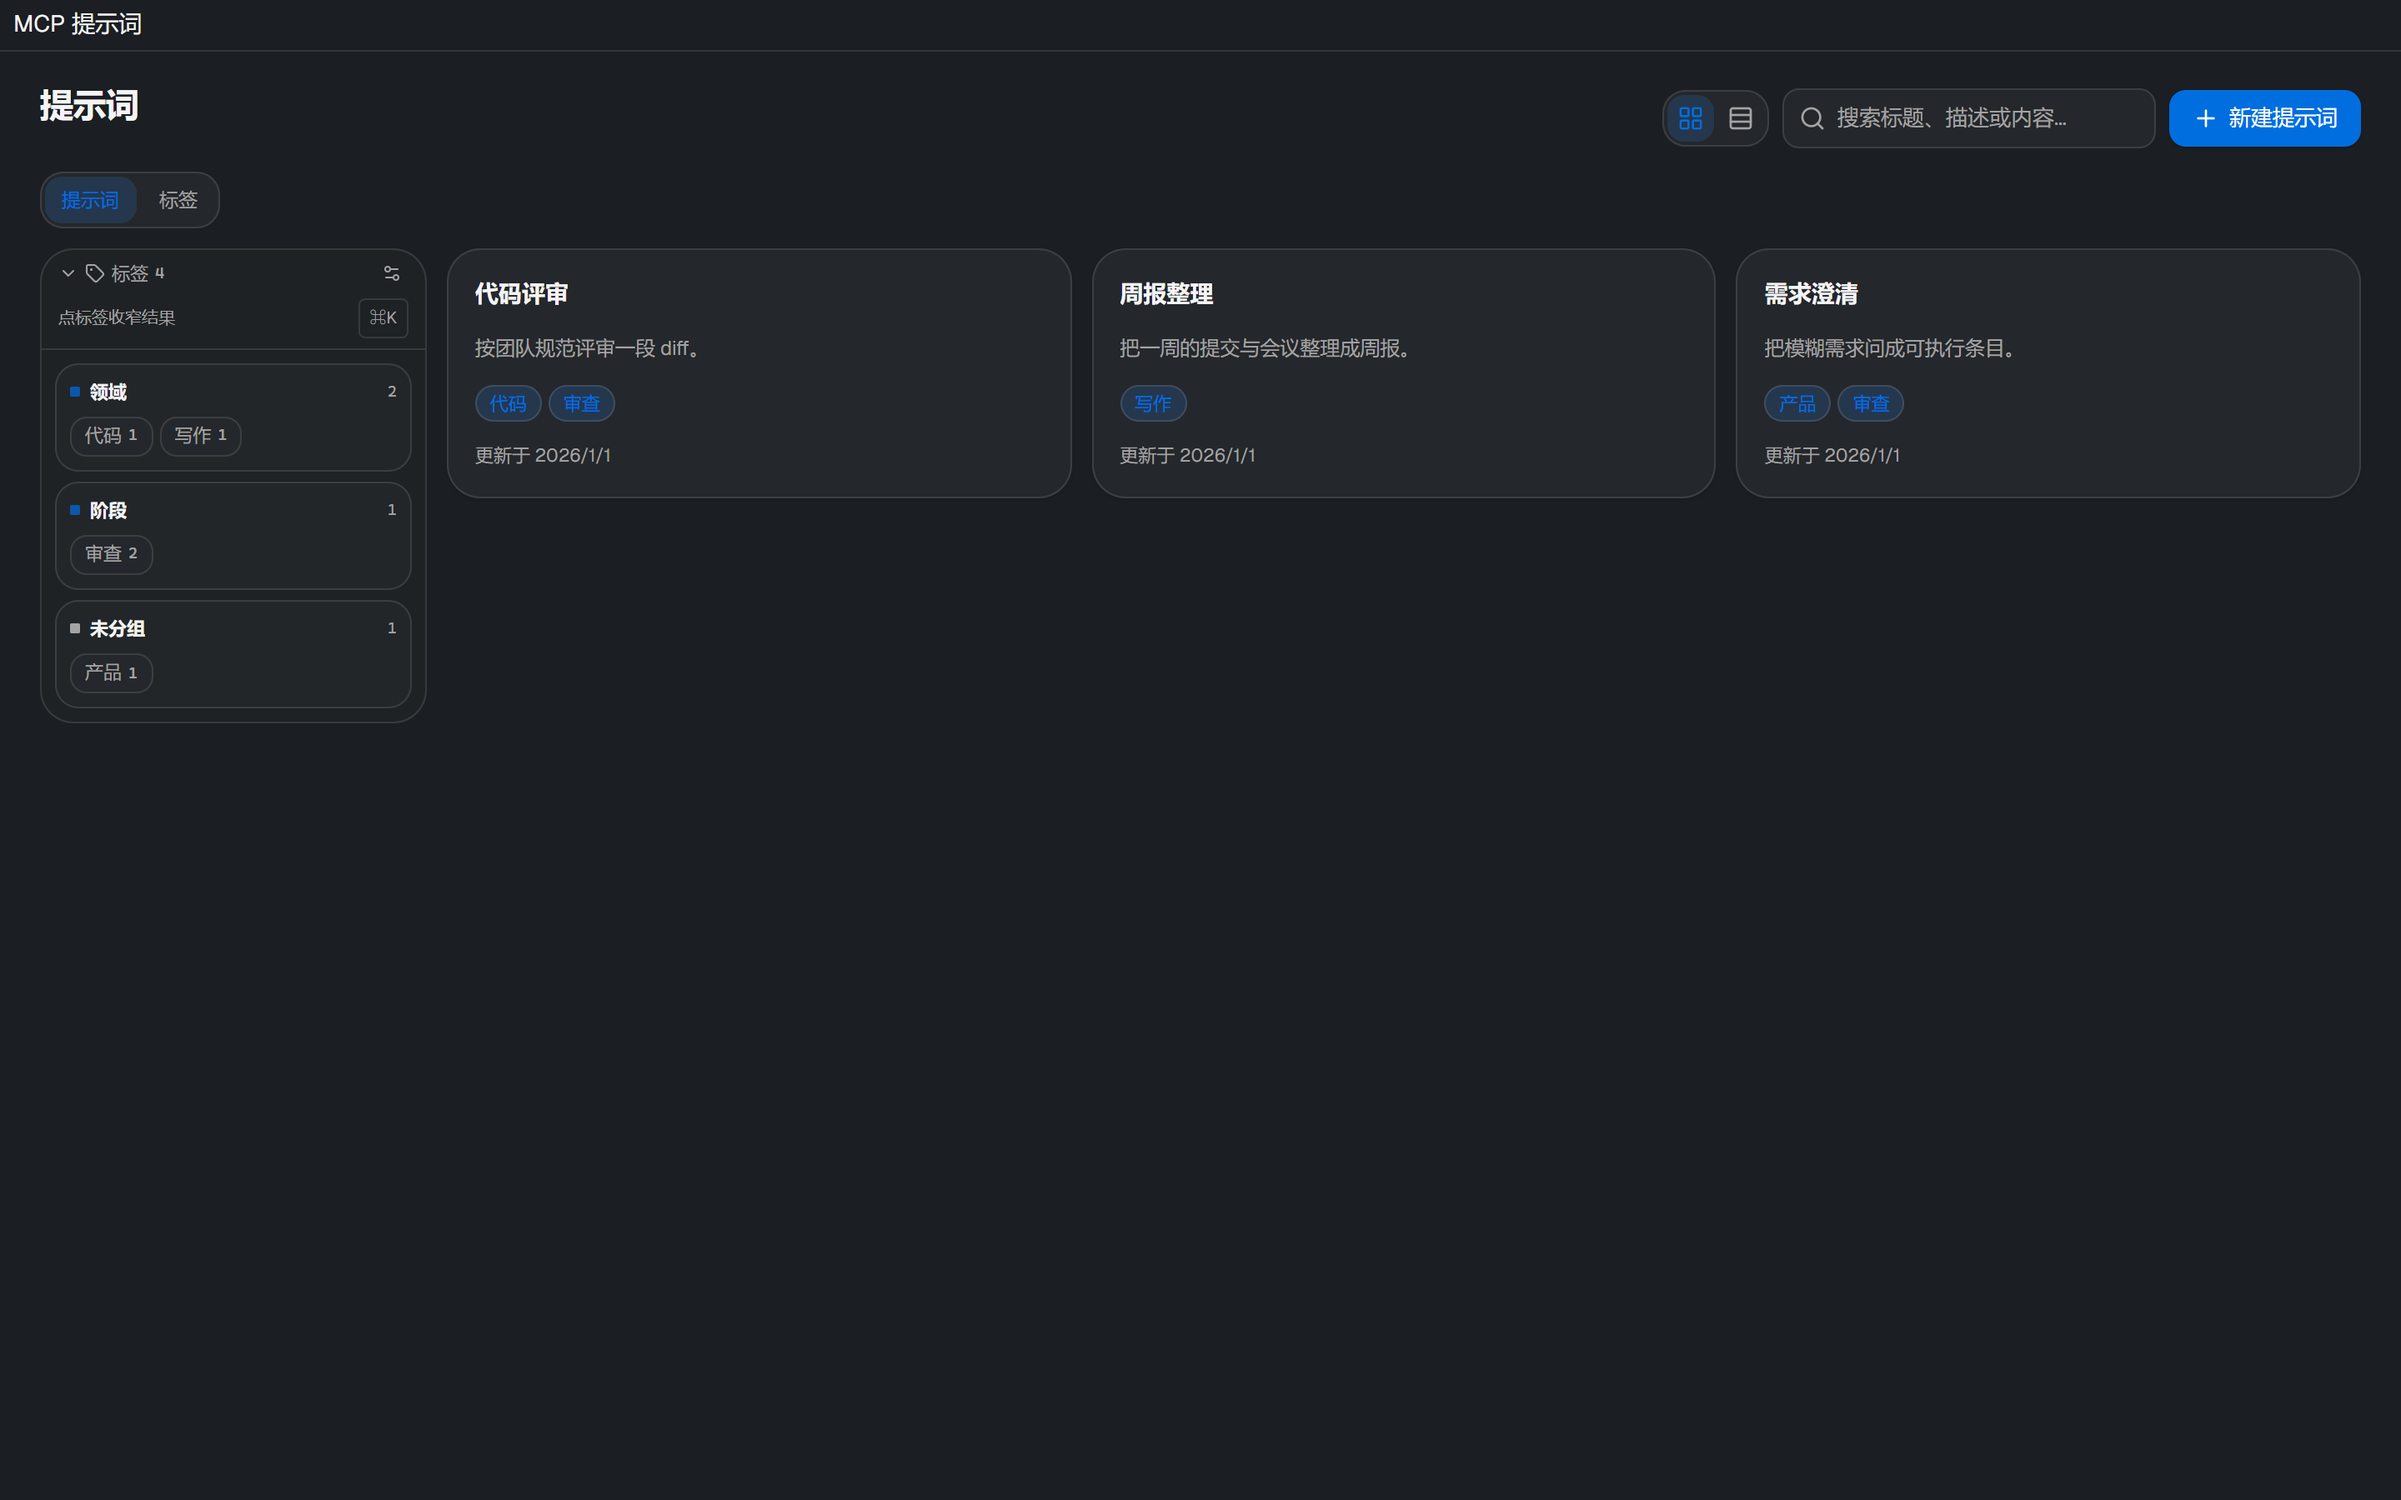
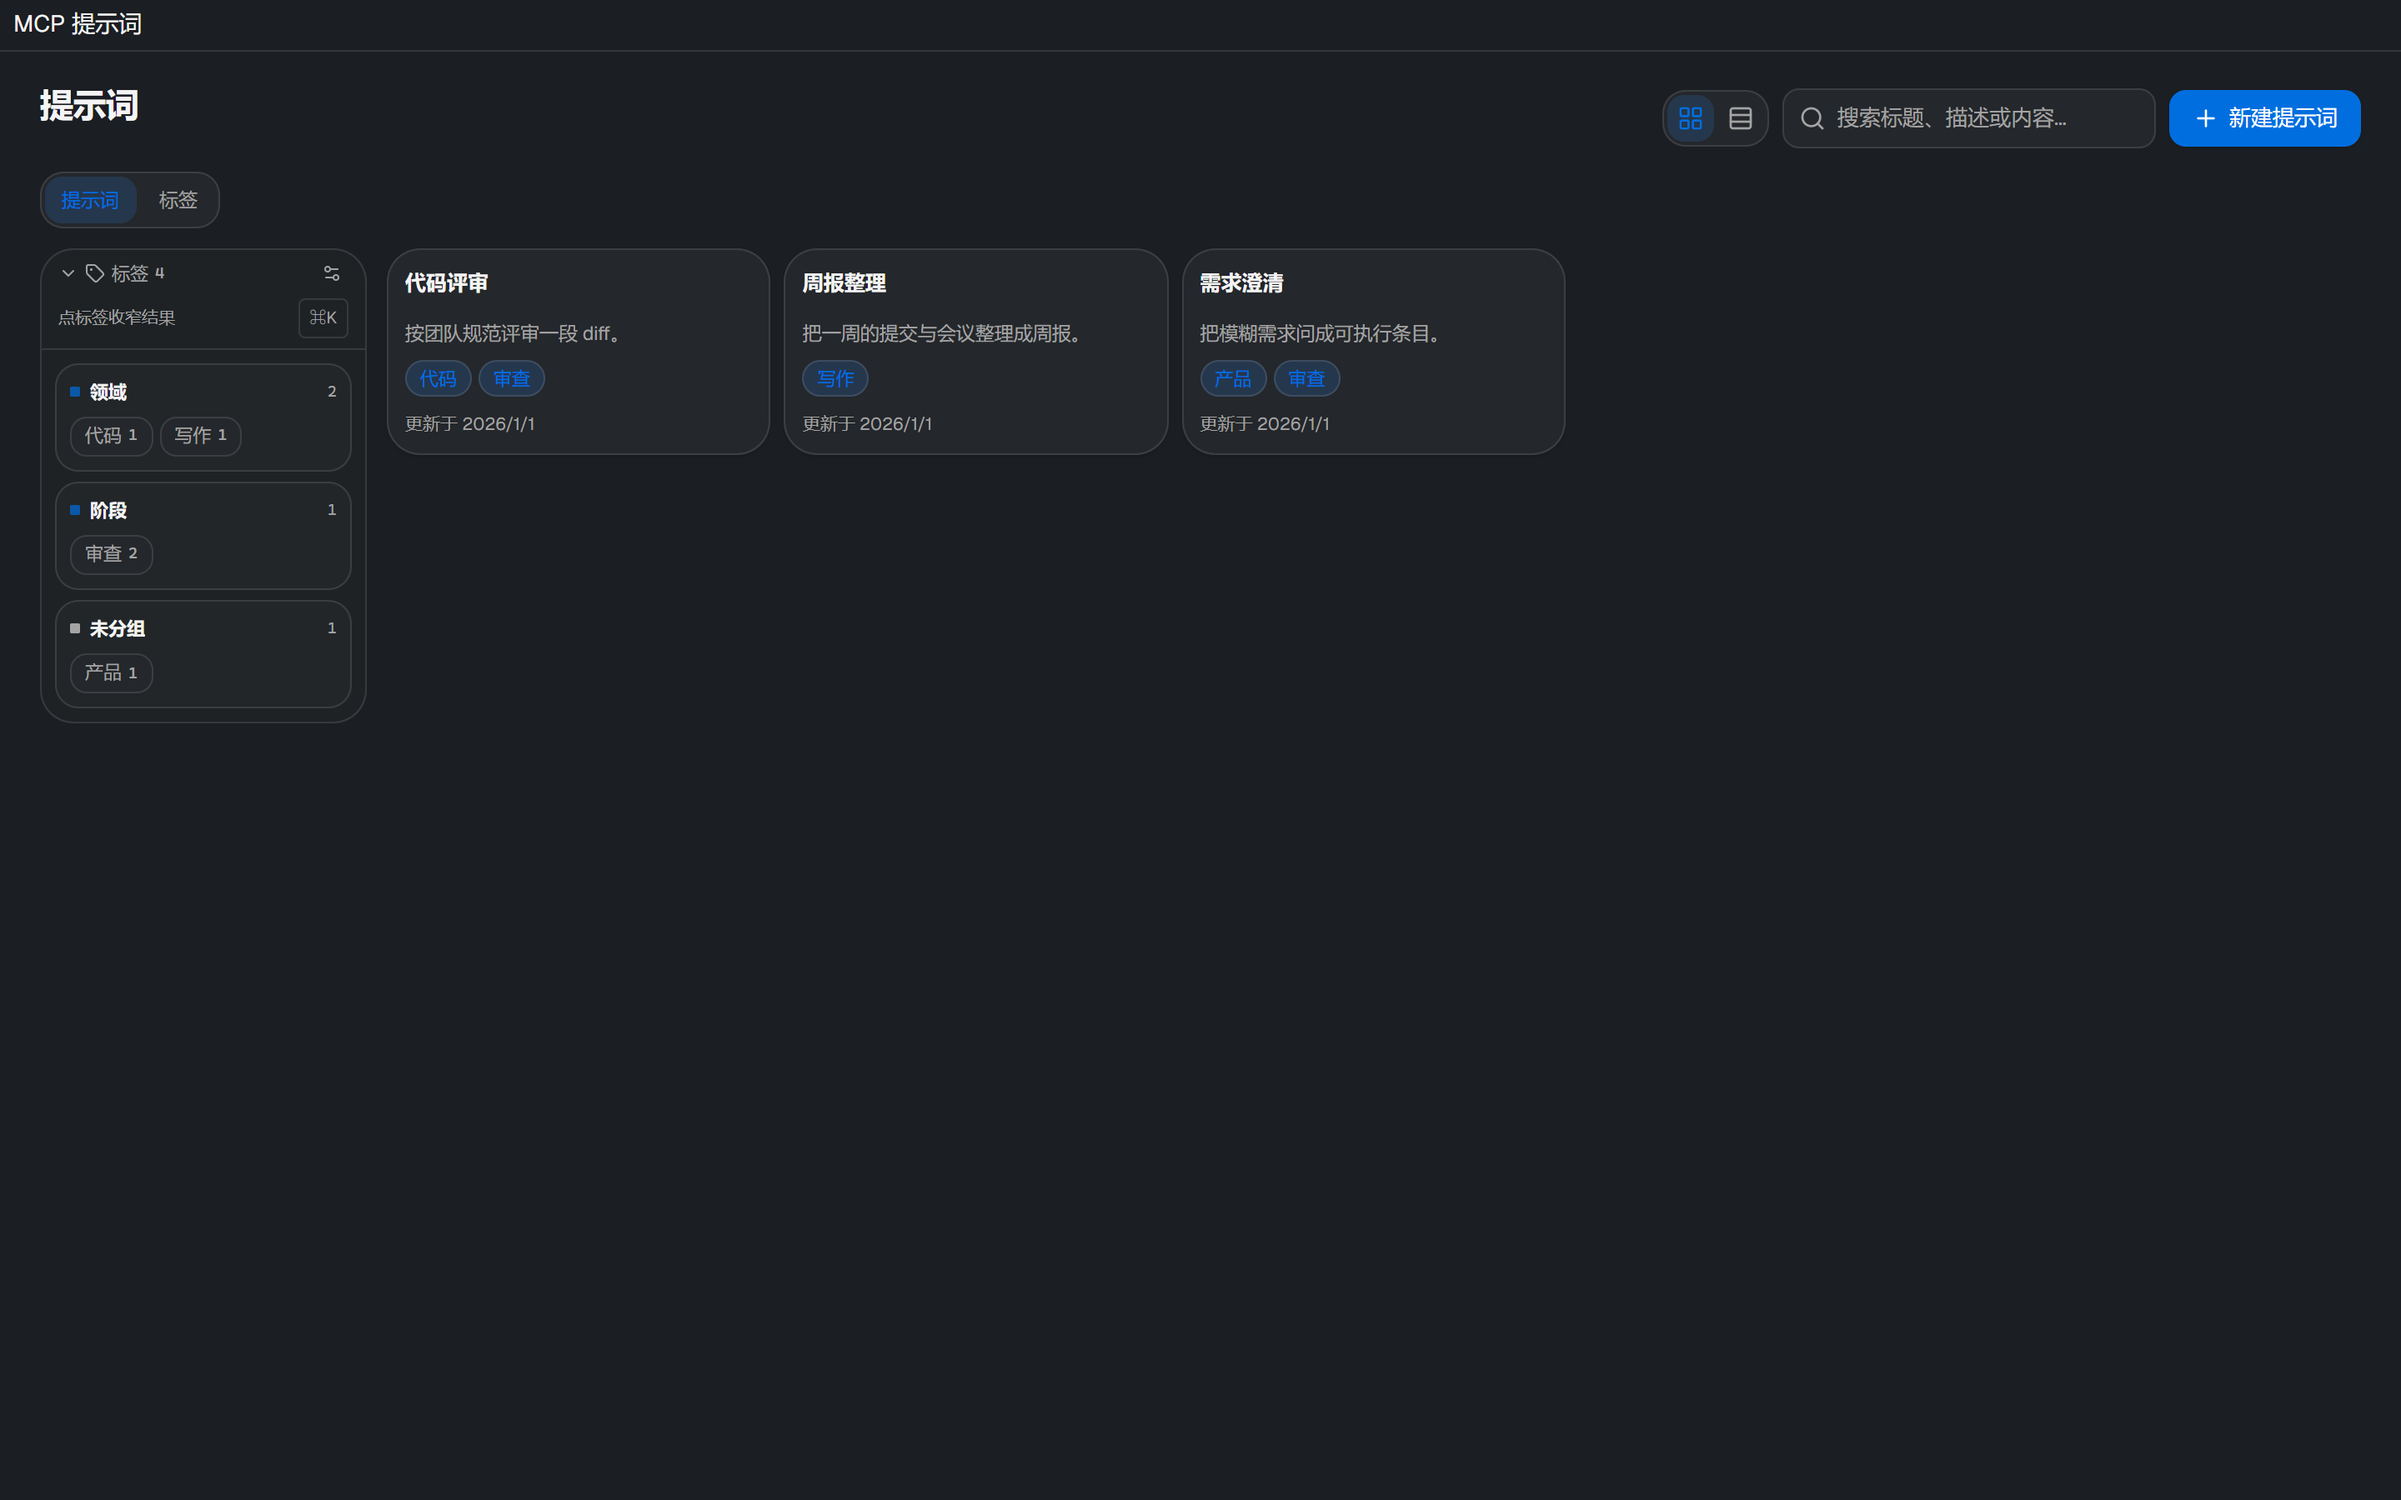
提高技能/提示词/MCP 三页卡片密度：按容器宽度自适应铺满
原来固定 sm:2 / xl:3 / 2xl:4 列，宽屏上一行只放四张，窄一点就掉到两列，
卡片本身的 p-4 内边距和 14px 标题也把有限宽度吃掉。改成
repeat(auto-fill, minmax(230px, 1fr)) 后列数只跟容器走，1440 宽下技能页
能到五列；卡片内边距收到 p-2.5、标题 12.5px、描述 11.5px，左栏标签仓
232px 收窄到 196px 把宽度让给卡片。信息密度上去了，一屏能扫到的条目翻倍。

diff --git a/src/ahub/pages/SkillsPage.tsx b/src/ahub/pages/SkillsPage.tsx
@@ -829,7 +829,7 @@ export function SkillsPage() {
       ) : (
         <>
           <div className="flex min-h-0 flex-1 items-start gap-3">
-            <aside className="w-[232px] shrink-0">
+            <aside className="w-[196px] shrink-0">
               <TagShelf
                 variant="rail"
                 allTags={allTags}
@@ -1101,7 +1101,7 @@ export function SkillsPage() {
                 data-anim
                 onClick={() => (batchMode ? toggleBatch(s.dirName) : void openDetail(s))}
                 className={cn(
-                  "group flex cursor-pointer flex-col rounded-xl border border-border bg-card p-4 shadow-sm outline-none transition-all hover:-translate-y-0.5 hover:border-primary/40 hover:shadow-md",
+                  "group flex cursor-pointer flex-col rounded-xl border border-border bg-card p-2.5 shadow-sm outline-none transition-all hover:-translate-y-0.5 hover:border-primary/40 hover:shadow-md",
                   picked && "border-primary shadow-[0_0_0_3px_var(--ah-primary-soft)]",
                 )}
               >
@@ -1116,7 +1116,7 @@ export function SkillsPage() {
                       {picked ? <Check className="size-3.5" strokeWidth={3} /> : null}
                     </span>
                   ) : null}
-                  <h3 className="min-w-0 flex-1 truncate font-mono text-sm font-semibold text-foreground">{s.name}</h3>
+                  <h3 className="min-w-0 flex-1 truncate font-mono text-[12.5px] font-semibold text-foreground">{s.name}</h3>
                   {s.origin ? (
                     <Badge variant="muted" title={s.origin.file} className="shrink-0">
                       <HarnessIcon id={hid} />
@@ -1129,7 +1129,7 @@ export function SkillsPage() {
                   )}
                 </div>
                 {s.description ? (
-                  <p className="mt-1.5 line-clamp-2 text-xs leading-relaxed text-ink-2">{s.description}</p>
+                  <p className="mt-1 line-clamp-2 text-[11.5px] leading-snug text-ink-2">{s.description}</p>
                 ) : null}
                 {/* AI 摘要：有摘要时给一行速览，没有则不占位（详情页有生成入口） */}
                 {s.summary ? (
@@ -1142,7 +1142,7 @@ export function SkillsPage() {
                     {s.summary.oneLiner}
                   </p>
                 ) : null}
-                <div className="mt-3 flex flex-wrap items-center gap-1">
+                <div className="mt-2 flex flex-wrap items-center gap-1">
                   {s.tags.map((tg) => {
                     const on = activeTags.has(tg);
                     return (
@@ -1274,14 +1274,14 @@ export function SkillsPage() {
                           </button>
                         ) : null}
                       </h2>
-                      {collapsed ? null : <div className="grid gap-2.5 sm:grid-cols-2 lg:grid-cols-3 2xl:grid-cols-4">{list.map(card)}</div>}
+                      {collapsed ? null : <div className="grid grid-cols-[repeat(auto-fill,minmax(230px,1fr))] gap-2">{list.map(card)}</div>}
                     </section>
                   );
                 })}
               </div>
             );
           }
-          return <div className="grid gap-2.5 sm:grid-cols-2 lg:grid-cols-3 2xl:grid-cols-4">{filtered.map(card)}</div>;
+          return <div className="grid grid-cols-[repeat(auto-fill,minmax(230px,1fr))] gap-2">{filtered.map(card)}</div>;
         })()
       )}
 

diff --git a/src/ahub/pages/PromptsPage.tsx b/src/ahub/pages/PromptsPage.tsx
@@ -299,7 +299,7 @@ export function PromptsPage() {
       ) : (
         <>
           <div className="flex min-h-0 flex-1 items-start gap-3">
-            <aside className="w-[232px] shrink-0">
+            <aside className="w-[196px] shrink-0">
               <TagShelf
                 variant="rail"
                         allTags={allTags}
@@ -490,16 +490,16 @@ export function PromptsPage() {
           </div>
         </div>
       ) : (
-        <div className="grid gap-3 sm:grid-cols-2 xl:grid-cols-3">
+        <div className="grid grid-cols-[repeat(auto-fill,minmax(230px,1fr))] gap-2">
           {filtered.map((p) => (
             <div
               key={p.id}
               data-anim
               onClick={() => openEdit(p)}
-              className="group flex cursor-pointer flex-col rounded-xl border border-border bg-card p-4 shadow-sm outline-none transition-all hover:-translate-y-0.5 hover:border-primary/40 hover:shadow-md"
+              className="group flex cursor-pointer flex-col rounded-xl border border-border bg-card p-2.5 shadow-sm outline-none transition-all hover:-translate-y-0.5 hover:border-primary/40 hover:shadow-md"
             >
               <div className="flex items-start justify-between gap-2">
-                <h3 className="min-w-0 flex-1 truncate text-sm font-semibold text-foreground">{p.title}</h3>
+                <h3 className="min-w-0 flex-1 truncate text-[12.5px] font-semibold text-foreground">{p.title}</h3>
                 <div className="flex shrink-0 items-center gap-0.5 opacity-0 transition-opacity group-hover:opacity-100">
                   {/* 只有正文里真有占位符时才出现「填充」，否则这个按钮点进去是空的 */}
                   {hasVars(p) ? (
@@ -540,18 +540,18 @@ export function PromptsPage() {
                 </div>
               </div>
               {p.description ? (
-                <p className="mt-1.5 line-clamp-2 text-xs leading-relaxed text-ink-2">{p.description}</p>
+                <p className="mt-1 line-clamp-2 text-[11.5px] leading-snug text-ink-2">{p.description}</p>
               ) : (
                 <p className="mt-1.5 line-clamp-2 text-xs leading-relaxed text-ink-3">{p.content.slice(0, 120)}</p>
               )}
-              <div className="mt-3 flex flex-wrap gap-1">
+              <div className="mt-2 flex flex-wrap gap-1">
                 {p.tags.map((tg) => (
                   <Badge key={tg} variant="default">
                     {tg}
                   </Badge>
                 ))}
               </div>
-              <div className="mt-auto flex items-center gap-2 pt-3 text-[11px] text-ink-3">
+              <div className="mt-auto flex items-center gap-2 pt-2 text-[10.5px] text-ink-3">
                 <span>{t("common.updatedAt")} {fmt(p.updatedAt)}</span>
                 {p.versions.length > 0 ? (
                   <span className="ml-auto inline-flex items-center gap-1">

diff --git a/src/ahub/pages/McpPage.tsx b/src/ahub/pages/McpPage.tsx
@@ -493,7 +493,7 @@ export function McpPage() {
       {/* 标签筛选常驻：即便当前没有标签也保留入口，否则用户不知道有这个能力，
           与 Skills 页保持一致（那边是无条件显示的） */}
           <div className="flex min-h-0 flex-1 items-start gap-3">
-            <aside className="w-[232px] shrink-0">
+            <aside className="w-[196px] shrink-0">
               <TagShelf
                 variant="rail"
                         allTags={allTags}
@@ -596,7 +596,7 @@ export function McpPage() {
           }
         />
       ) : (
-        <div className="grid gap-3 sm:grid-cols-2 xl:grid-cols-3">
+        <div className="grid grid-cols-[repeat(auto-fill,minmax(230px,1fr))] gap-2">
           {filtered.map((s) => (
             <div
               key={s.id}
@@ -612,14 +612,14 @@ export function McpPage() {
               }}
               onDoubleClick={() => openEdit(s)}
               className={cn(
-                "group flex flex-col rounded-xl border border-border bg-card p-4 shadow-sm transition-all hover:-translate-y-0.5 hover:border-primary/40 hover:shadow-md",
+                "group flex flex-col rounded-xl border border-border bg-card p-2.5 shadow-sm transition-all hover:-translate-y-0.5 hover:border-primary/40 hover:shadow-md",
                 !s.enabled && "opacity-60",
                 batchMode && "cursor-pointer",
                 batchMode && batchSel.has(s.id) && "border-primary shadow-[0_0_0_3px_var(--ah-primary-soft)]",
               )}
             >
               <div className="flex items-start justify-between gap-2">
-                <h3 className="min-w-0 flex-1 truncate font-mono text-sm font-semibold text-foreground">{s.name}</h3>
+                <h3 className="min-w-0 flex-1 truncate font-mono text-[12.5px] font-semibold text-foreground">{s.name}</h3>
                 {batchMode ? (
                   <span
                     className={cn(
